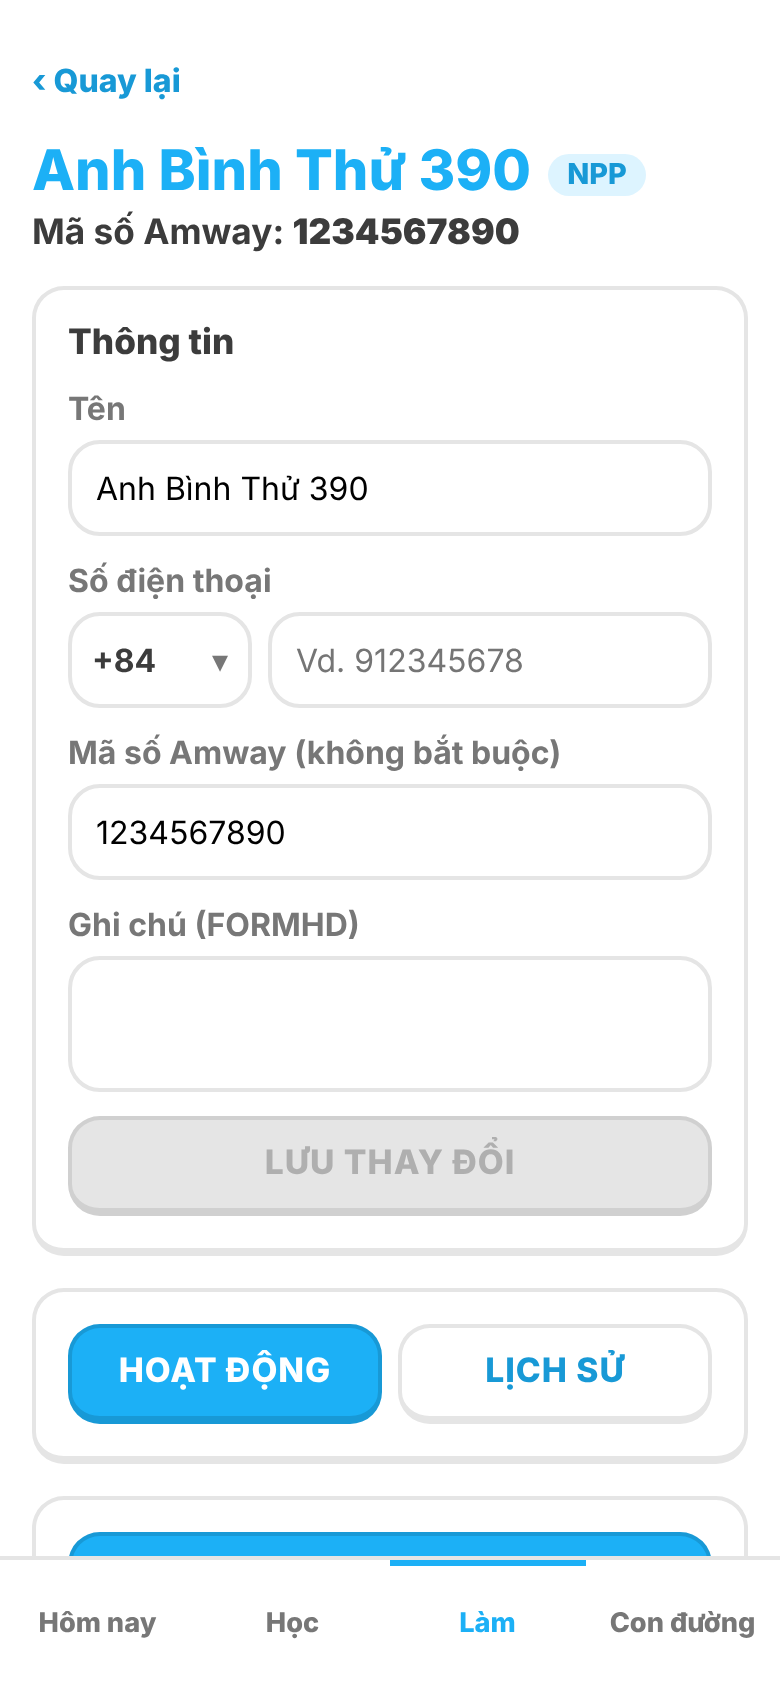
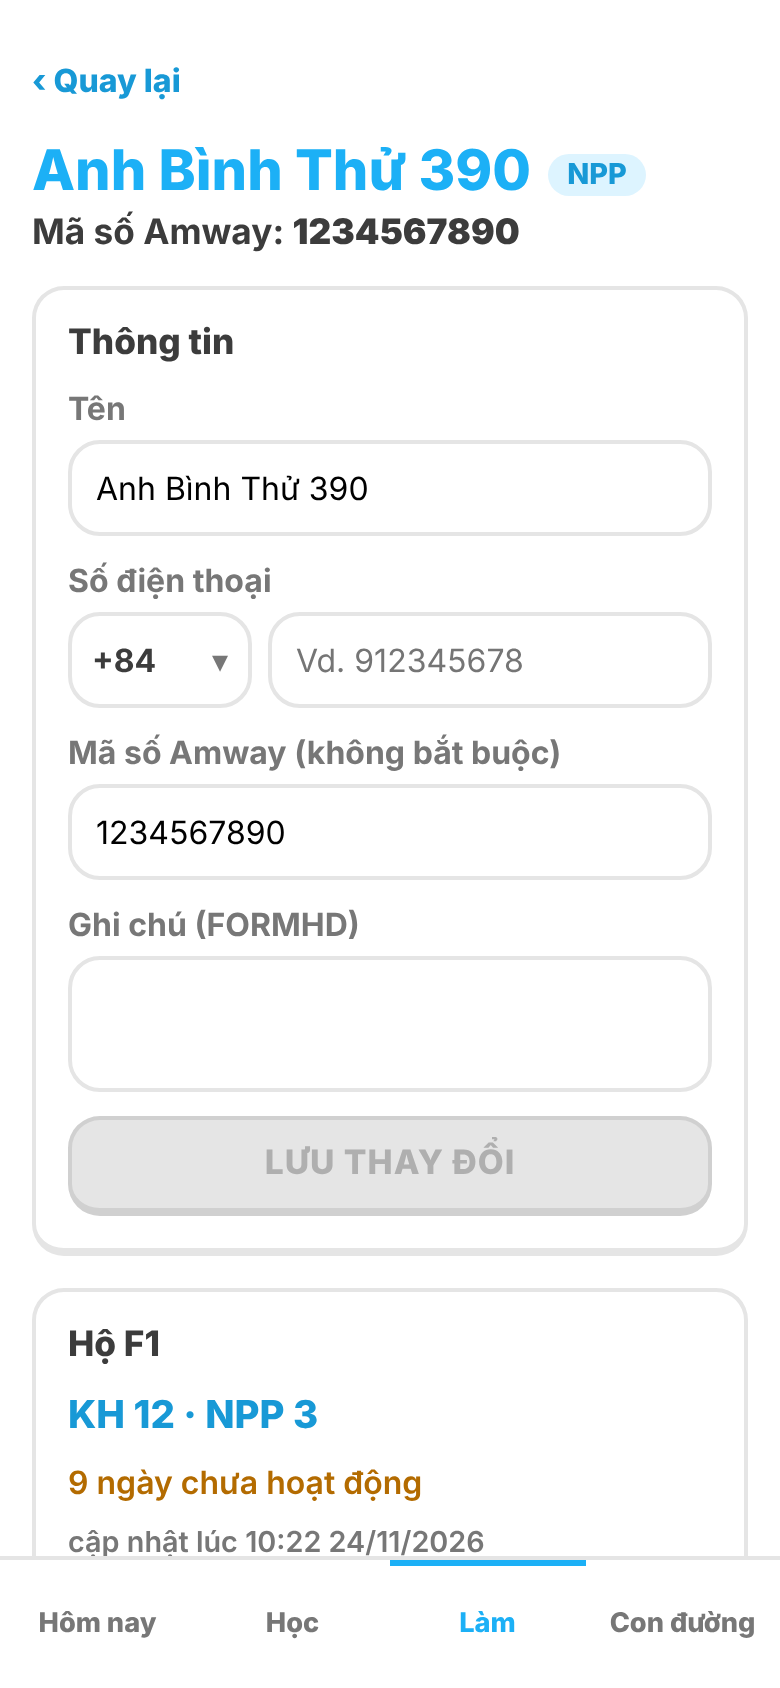
feat: remove Bảng 30x30 and Nhóm của tôi, Hộ F1 totals on NPP contacts; Hôm nay without Học/Làm buttons, cheer card names both spouses (story 042)
Story: story-042-remove-board-and-group

Claude-Session: https://claude.ai/code/session_01N8trRukAdUtow4mzvQDbn7

Changed region(s): [[0.0308, 0.7701, 0.9846, 0.9242], [0.8923, 0.8009, 0.9231, 0.8318]]

diff --git a/tests/unit/people-ui/cheer-candidates.test.ts b/tests/unit/people-ui/cheer-candidates.test.ts
@@ -1,7 +1,7 @@
 // Hôm nay "Cổ vũ nhóm" (story 041): which F1 households the card lists, and in what order.
 import { describe, expect, it } from 'vitest';
 import type { GroupHousehold } from '../../../src/data/group-service';
-import { cheerCandidates, householdActivityNote } from '../../../src/ui/group-helpers';
+import { cheerCandidates, householdActivityNote, householdNames } from '../../../src/ui/group-helpers';
 
 const NOW = new Date('2026-11-24T05:00:00.000Z');
 const INACTIVE_DAYS = 7;
@@ -25,5 +25,29 @@ describe('householdActivityNote', () => {
     expect(householdActivityNote(house('a', '2026-11-14T05:00:00.000Z'), NOW, INACTIVE_DAYS)).toBe('10 ngày chưa hoạt động');
     expect(householdActivityNote(house('a', null), NOW, INACTIVE_DAYS)).toBe('Chưa hoạt động lần nào');
     expect(householdActivityNote(house('a', '2026-11-23T05:00:00.000Z'), NOW, INACTIVE_DAYS)).toBeNull();
+  });
+});
+
+describe('householdNames (2026-11-24)', () => {
+  const h = (members: { userId: string; displayName: string | null; phone: string | null }[], code: string | null = '1234567890') =>
+    ({ householdId: 'h', code, members, memberCount: members.length, lastActivityAt: null, numbers: null, cheeredToday: false }) as unknown as GroupHousehold;
+  const LINKED = new Map([['u1', 'Anh Bình']]);
+  const BY_CODE = new Map([['1234567890', 'Chị Hoa']]);
+
+  it('shows both spouses joined with &', () => {
+    expect(householdNames(h([{ userId: 'u1', displayName: null, phone: '+849' }, { userId: 'u2', displayName: 'Chị Mai', phone: '+848' }]), LINKED)).toBe('Anh Bình & Chị Mai');
+  });
+
+  it('uses my contact name for the household code when no member has a name', () => {
+    expect(householdNames(h([{ userId: 'x', displayName: null, phone: '+849' }]), new Map(), BY_CODE)).toBe('Chị Hoa');
+    expect(householdNames(h([{ userId: 'x', displayName: null, phone: '+849' }, { userId: 'y', displayName: null, phone: '+848' }]), new Map(), BY_CODE)).toBe('Chị Hoa & +848');
+  });
+
+  it('gives the code name to the unnamed member when the spouse has a name', () => {
+    expect(householdNames(h([{ userId: 'x', displayName: null, phone: '+849' }, { userId: 'y', displayName: 'Chị Mai', phone: '+848' }]), new Map(), BY_CODE)).toBe('Chị Hoa & Chị Mai');
+  });
+
+  it('falls back to the phone without any name', () => {
+    expect(householdNames(h([{ userId: 'x', displayName: null, phone: '+849' }], null), new Map(), BY_CODE)).toBe('+849');
   });
 });

diff --git a/src/ui/group-helpers.ts b/src/ui/group-helpers.ts
@@ -21,10 +21,42 @@ export function groupMemberName(member: Pick<GroupMember, 'userId' | 'displayNam
   return member.displayName ?? contactNames.get(member.userId) ?? member.phone ?? STRINGS.groupMemberUnnamed;
 }
 
-/** Member names of a household, joined; a placeholder when it has none. */
-export function householdNames(h: GroupHousehold, contactNames: ReadonlyMap<string, string>): string {
-  const names = h.members.map((m) => groupMemberName(m, contactNames));
-  return names.length === 0 ? STRINGS.groupMemberUnnamed : names.join(', ');
+/**
+ * Amway code → the name I saved in my own Danh bạ for the contact with that code (story 041,
+ * 2026-11-24): names an F1 household whose members have not set a name yet.
+ */
+export function codeContactNames(people: readonly Person[]): ReadonlyMap<string, string> {
+  const names = new Map<string, string>();
+  for (const p of people) if (p.amwayCode != null && p.amwayCode !== '' && !names.has(p.amwayCode)) names.set(p.amwayCode, p.name);
+  return names;
+}
+
+/**
+ * Names of every member of a household, joined with " & " so a couple shows both (2026-11-24).
+ * Each member: the display name they set, else my contact name for that account; when no member
+ * is known that way the first unnamed one takes my contact name for the household code (unless a
+ * member already shows it); the rest fall back to phone, then a placeholder.
+ */
+export function householdNames(
+  h: GroupHousehold,
+  contactNames: ReadonlyMap<string, string>,
+  codeNames: ReadonlyMap<string, string> = new Map(),
+): string {
+  const known = h.members.map((m) => m.displayName ?? contactNames.get(m.userId) ?? null);
+  const byCode = h.code === null ? undefined : codeNames.get(h.code);
+  // My contact name for the household code goes to the first member without a name, unless a member already has it.
+  let codeUsed = byCode === undefined || known.includes(byCode);
+  const names = h.members.map((m, i) => {
+    const name = known[i];
+    if (name != null) return name;
+    if (!codeUsed && byCode !== undefined) {
+      codeUsed = true;
+      return byCode;
+    }
+    return m.phone ?? STRINGS.groupMemberUnnamed;
+  });
+  if (names.length === 0) return byCode ?? STRINGS.groupMemberUnnamed;
+  return names.join(' & ');
 }
 
 /**

diff --git a/src/ui/screens/group-cheer-card.tsx b/src/ui/screens/group-cheer-card.tsx
@@ -5,7 +5,7 @@ import { loadGroup, parseGroupConfig, readGroupCache, sendCheer, writeGroupCache
 import type { GroupData } from '../../data/group-service';
 import type { EventStore } from '../../data/event-store';
 import { derivePeople } from '../../domain/people';
-import { cheerCandidates, householdActivityNote, householdNames, linkedContactNames } from '../group-helpers';
+import { cheerCandidates, codeContactNames, householdActivityNote, householdNames, linkedContactNames } from '../group-helpers';
 import { PEOPLE_CONFIG } from '../people-config';
 import { STRINGS, groupCheerAria } from '../strings';
 
@@ -40,6 +40,7 @@ export function GroupCheerCard({ clientPromise, accountId, eventStore, now = rea
   const [cheering, setCheering] = useState<string | null>(null);
   const [notice, setNotice] = useState<{ readonly text: string; readonly error: boolean } | null>(null);
   const [contactNames, setContactNames] = useState<ReadonlyMap<string, string>>(() => new Map());
+  const [codeNames, setCodeNames] = useState<ReadonlyMap<string, string>>(() => new Map());
   const reload = useCallback(() => setReloadKey((k) => k + 1), []);
 
   useEffect(() => {
@@ -58,7 +59,10 @@ export function GroupCheerCard({ clientPromise, accountId, eventStore, now = rea
     eventStore
       .list()
       .then((events) => {
-        if (!cancelled) setContactNames(linkedContactNames(derivePeople(events, PEOPLE_CONFIG)));
+        if (cancelled) return;
+        const people = derivePeople(events, PEOPLE_CONFIG);
+        setContactNames(linkedContactNames(people));
+        setCodeNames(codeContactNames(people));
       })
       .catch((error: unknown) => console.error('[cheer-card] could not read contact names', error));
     return () => {
@@ -127,7 +131,7 @@ export function GroupCheerCard({ clientPromise, accountId, eventStore, now = rea
       {candidates.length > 0 && (
         <ul className="cheer-group__list">
           {candidates.map((h) => {
-            const names = householdNames(h, contactNames);
+            const names = householdNames(h, contactNames, codeNames);
             const activity = householdActivityNote(h, now(), GROUP_CONFIG.inactiveDays);
             return (
               <li key={h.householdId} className="cheer-group__row">

diff --git a/src/ui/screens/today-screen.tsx b/src/ui/screens/today-screen.tsx
@@ -32,8 +32,6 @@ export interface TodayScreenProps {
   readonly eventStore: EventStore;
   /** Opens Học (story 005). */
   readonly onLearn: () => void;
-  /** Opens the Làm tab: the person list where tasks are done (story 015). */
-  readonly onDo: () => void;
   /** Name of the current Con đường stage (story 006); a neutral placeholder is shown when absent. */
   readonly currentStageName?: string;
   /** Stages used to derive the current stage when `currentStageName` is absent; defaults to game-config.json. */
@@ -103,7 +101,6 @@ function realNow(): Date {
 export function TodayScreen({
   eventStore,
   onLearn,
-  onDo,
   currentStageName,
   stages = DEFAULT_STAGES,
   config = DEFAULT_CONFIG,
@@ -267,14 +264,6 @@ export function TodayScreen({
         </span>
       </section>
 
-      <div className="action-bar today-actions">
-        <button type="button" className="button button--primary button--big" onClick={onLearn}>
-          {STRINGS.learnButton}
-        </button>
-        <button type="button" className="button button--primary button--big" onClick={onDo}>
-          {STRINGS.doButton}
-        </button>
-      </div>
     </main>
   );
 }

diff --git a/src/app.tsx b/src/app.tsx
@@ -648,7 +648,6 @@ export function App({ eventStore: rawEventStore, notificationPlatform = DEFAULT_
             setStartLessonId(lessonId);
             setTab('learn');
           }}
-          onDo={() => setTab('people')}
           onOpenSettings={() => setTab('settings')}
           notificationPermission={notificationPlatform.permission}
           cheer={unseenCheer}

diff --git a/production/epics/diamond-challenge/story-042-remove-board-and-group.md b/production/epics/diamond-challenge/story-042-remove-board-and-group.md
@@ -1,7 +1,7 @@
 # Story 042: Bỏ màn Bảng 30x30 và Nhóm của tôi; khung "Hộ F1" trong chi tiết NPP
 
 > **Epic**: diamond-challenge
-> **Status**: In Progress
+> **Status**: Complete
 > **Layer**: Feature
 > **Type**: UI
 > **Estimate**: M
@@ -41,3 +41,21 @@
 
 - Depends on: `production/epics/diamond-challenge/story-041-cheer-card-today.md`
 - Unlocks: None
+
+## Files
+
+- Deleted: `src/ui/screens/board-30x30-screen.tsx`, `src/ui/screens/my-group-screen.tsx`
+- `src/app.tsx` (routes `board`, `group` and the board filter/back plumbing removed; `renderPersonExtra`), `src/ui/screens/diamond-path-screen.tsx` (two buttons removed)
+- `src/ui/screens/f1-household-box.tsx` (new: "Hộ F1"), `src/ui/screens/person-form.tsx` (`extra` slot), `src/ui/screens/people-screen.tsx` (`renderPersonExtra`)
+- `src/ui/group-helpers.ts` (`findF1Household`, `f1TotalsLabel`, `codeContactNames`; `householdNames` joins spouses with " & ")
+- Small fixes asked on 2026-11-24 while this story was open: Hôm nay loses the big Học / Làm buttons (`today-screen.tsx`); "Cổ vũ nhóm" names each household by both spouses, using my contact name for the household code when a member has no name (`group-cheer-card.tsx`)
+- `src/ui/strings.ts`, `src/ui/styles.css`
+- `tests/unit/people-ui/f1-household.test.ts` (3 tests), `tests/unit/people-ui/cheer-candidates.test.ts` (+4 name tests)
+- `production/qa/evidence/story-042-remove-board-and-group/`
+
+## Completion Notes
+**Completed**: 2026-11-24
+**Criteria**: 6/6 passing (none deferred)
+**Deviations**: Advisory: (1) the duplicates entry already existed on Làm, so nothing moved; (2) the aggregate upload to the server stays (it feeds the Hộ F1 box); (3) unused board strings remain in `strings.ts`; (4) the Hộ F1 box shows only for an NPP contact whose code matches an F1 household code
+**Test Evidence**: unit tests above; screenshots of Hôm nay, the NPP detail with Hộ F1, Con đường and Thành tích at 390 and 320px; full suite 620/620
+**Reviewed by**: self, no independent review

diff --git a/production/epics/diamond-challenge/EPIC.md b/production/epics/diamond-challenge/EPIC.md
@@ -55,7 +55,7 @@ Theo Build order của brief: nhật ký sự kiện + XP/streak → Làm + Hôm
 | 039 | Thẻ "Bài nên học tiếp" trên Hôm nay | UI | Complete | N/A |
 | 040 | Huỷ bảo trợ | Integration | Complete | N/A |
 | 041 | Thẻ "Cổ vũ nhóm" trên Hôm nay | UI | Complete | N/A |
-| 042 | Bỏ màn Bảng 30x30 và Nhóm của tôi; khung "Hộ F1" trong chi tiết NPP | UI | Ready | N/A |
+| 042 | Bỏ màn Bảng 30x30 và Nhóm của tôi; khung "Hộ F1" trong chi tiết NPP | UI | Complete | N/A |
 | 043 | Bỏ Lưu trữ liên hệ | UI | Ready | N/A |
 
 > 012–014 thay mô hình giai đoạn bằng việc cần làm + nhãn KH/NPP theo phản hồi dùng thử (2026-11-04, `design/gdd/crm.md`). Thứ tự gợi ý: 012 → 013 → 014 → 011.
